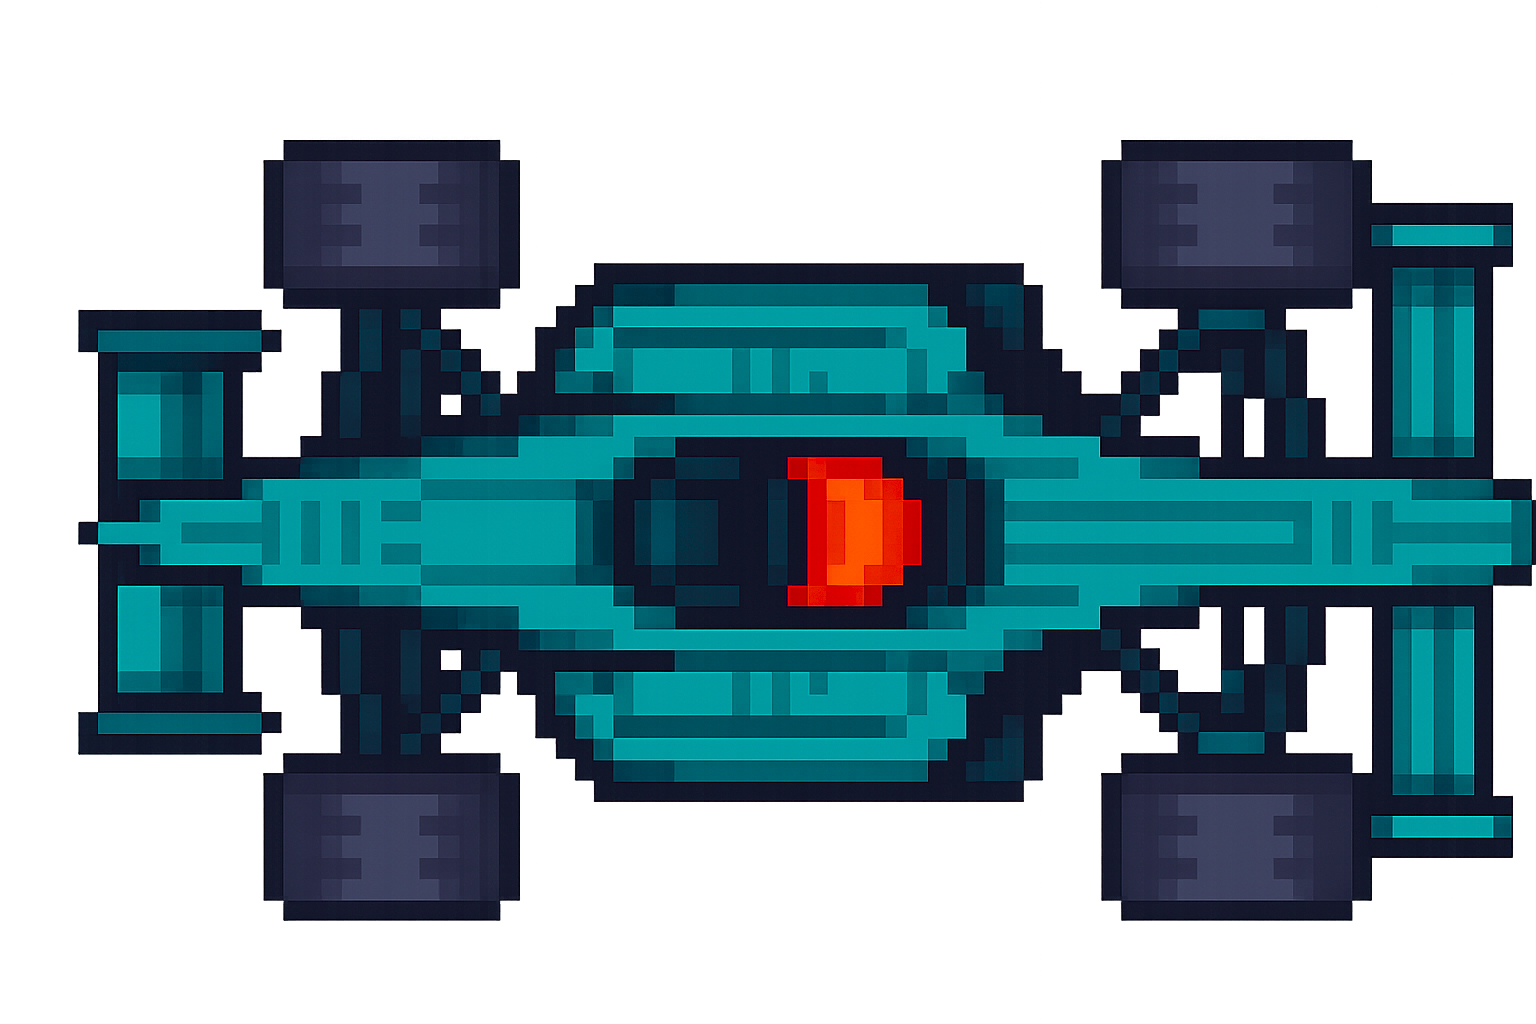
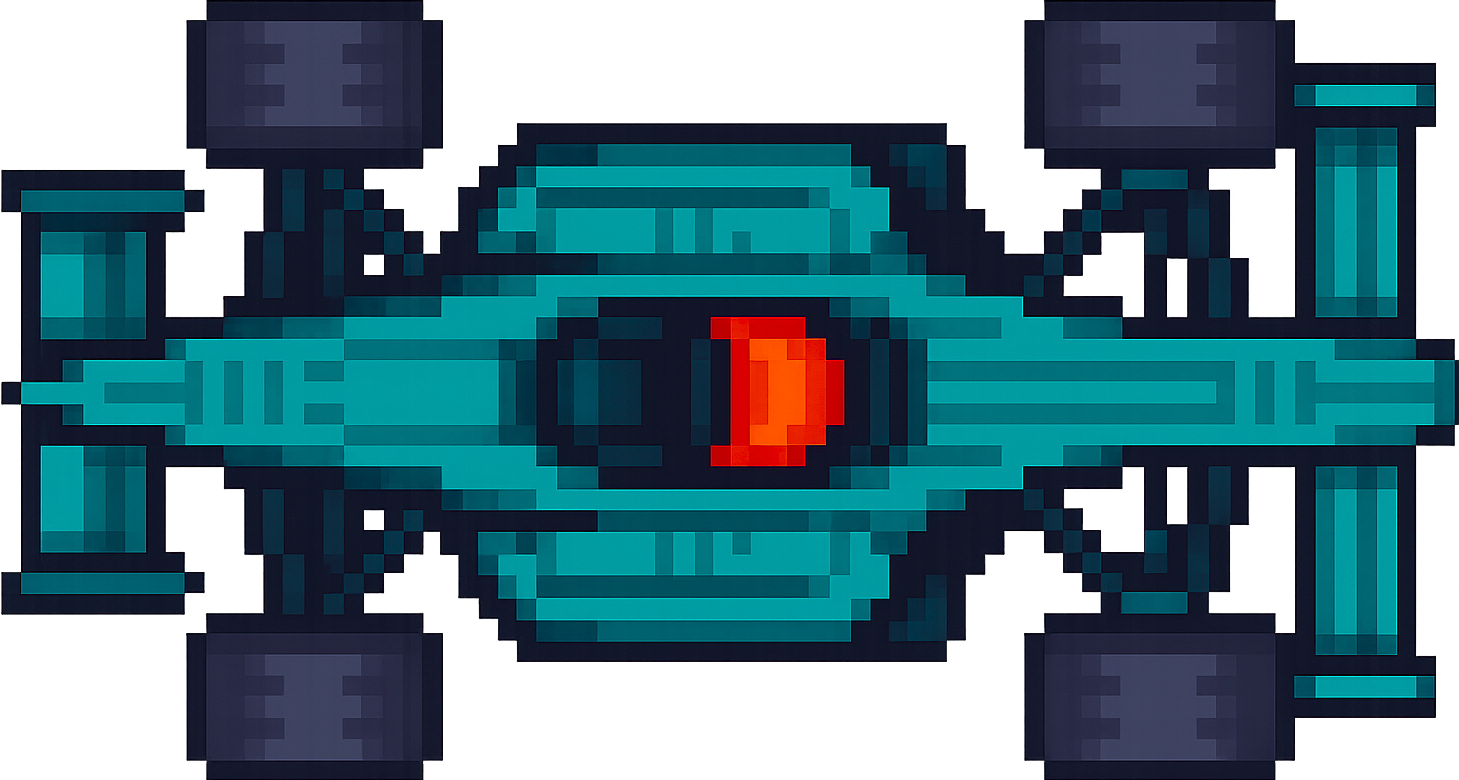
Colocando textura no carro

diff --git a/src/car.c b/src/car.c
@@ -33,10 +33,12 @@ void Track_setDrag(float track_drag, float light_escape_area_drag, float hard_es
     OUTSIDE_TRACK_DRAG     = 1 - ouside_track_drag;
 }
 
-void Track_setMask(Image track_mask) { // Definindo a imagem da máscara de pixels
-    IMAGE_WIDTH = track_mask.width;
-    IMAGE_HEIGHT = track_mask.height;
-    TRACK_PIXELS = LoadImageColors(track_mask);
+void Track_setMask(char* track_mask_path) { // Definindo a imagem da máscara de pixels
+    Image trackMask = LoadImage(track_mask_path);
+    IMAGE_WIDTH = trackMask.width;
+    IMAGE_HEIGHT = trackMask.height;
+    TRACK_PIXELS = LoadImageColors(trackMask);
+    UnloadImage(trackMask);
 }
 
 void Track_setDragColor(Color track, Color light_escape, Color hard_escape, Color outside) { // Definindo as cores de cada parte da pista e checkpoint
@@ -54,33 +56,6 @@ void Track_setCheckpointColor(Color race_start, Color first_check, Color second_
 
 void Track_Unload() { // Função para descarregar as variáveis associadas a pista
     UnloadImageColors(TRACK_PIXELS);
-}
-
-Car *Car_create(Vector2 pos, float acc, int width, int height, Color color, float angle,
-                float angularAcc, float minTurnSpeed, float breakCoeficient, float reverseForce,
-                int id) { // Função para criar um carro
-    Car *car = (Car *) malloc(sizeof(Car));
-    if (car == NULL)
-        return NULL;
-    car->pos          = pos;
-    car->acc          = acc;
-    car->width        = width;
-    car->height       = height;
-    car->color        = color;
-    car->angle        = angle;
-    car->angularAcc   = angularAcc;
-    car->minTurnSpeed = minTurnSpeed;
-    car->breakForce   = 1 - breakCoeficient;
-    car->reverseForce = reverseForce;
-    car->dragForce    = 0;
-    car->id           = id;
-    car->lap          = -1;
-    car->vel          = 0;
-    car->startLapTime = GetTime();
-    car->raceTime     = GetTime();
-    car->bestLapTime  = -1;
-    car->checkpoint   = 2;
-    return car;
 }
 
 static bool equalsColor(Color a, Color b) { // Verifica se uma cor é igual a outra
@@ -207,15 +182,56 @@ void Car_update(Car *car) {
 }
 
 void Car_draw(Car *car) {
-    Rectangle rect   = {car->pos.x, car->pos.y, car->width, car->height};
-    Vector2   origin = {car->width * 0.2f, car->height * 0.5f};
-    DrawRectanglePro(rect, origin, car->angle * RAD2DEG, car->color);
+    Rectangle sourceRec = {0, 0, car->texture.width, car->texture.height};  // A imagem inteira
+    Rectangle destRec = {car->pos.x, car->pos.y, car->width, car->height};  // Tamanho e posição do carro
+    Vector2 origin = {car->width * 0.5f, car->height * 0.5f};  // Centro da imagem para rotação
+    DrawTexturePro(car->texture, sourceRec, destRec, origin, car->angle * RAD2DEG, WHITE);
 }
 
+Car *Car_create(             // Função para criar um carro
+    Vector2 pos,             // posição inicial 
+    float angle,             // orientação inicial 
+
+    float acc,               // aceleração
+    float reverseForce,      // força de ré
+    float breakCoeficient,   // coeficiente de frenagem
+
+    float angularAcc,        // aceleração angular
+    float minTurnSpeed,      // velocidade mínima para virar
+
+    int width,               // largura do carro
+    int height,              // altura do carro
+
+    const char *texturePath, // path da textura 
+    int id                   // identificador único 
+) { 
+    Car *car = (Car *) malloc(sizeof(Car));
+    if (car == NULL)
+        return NULL;
+    car->pos          = pos;
+    car->acc          = acc;
+    car->texture      = LoadTexture(texturePath);
+    car->width        = width;
+    car->height       = height;
+    car->angle        = angle;
+    car->angularAcc   = angularAcc;
+    car->minTurnSpeed = minTurnSpeed;
+    car->breakForce   = 1 - breakCoeficient;
+    car->reverseForce = reverseForce;
+    car->dragForce    = 0;
+    car->id           = id;
+    car->lap          = -1;
+    car->vel          = 0;
+    car->startLapTime = GetTime();
+    car->raceTime     = GetTime();
+    car->bestLapTime  = -1;
+    car->checkpoint   = 2;
+    return car;
+}
 
 void Car_free(Car *car) {
+    UnloadTexture(car->texture);
     free(car);
-    // Caso precise liberar mais memória
 }
 
 void Car_move(Car *car, int up, int down, int right, int left) { // Atualiza as propriedades do carro de acordo com o input do player

diff --git a/src/game.c b/src/game.c
@@ -58,15 +58,9 @@ void setup() {
     SetTargetFPS(60);                                     // Definindo o frame rate em 60
 
     // Carregando a imagem da máscara de pixels
-    Image trackMask = LoadImage("resources/masks/interlagos_mask.png");
-    Track_setMask(trackMask);
-    UnloadImage(trackMask);
+    Track_setMask("resources/masks/interlagos_mask.png");
 
-    Image bgImage = LoadImage("resources/masks/interlagos_mask.png"); // Pista exibida
-    // ImageResize(&bgImage, SCREEN_WIDTH, SCREEN_HEIGHT);         // redimensiona
-    trackBackground = LoadTextureFromImage(bgImage); // converte em textura
-    UnloadImage(bgImage); // libera o recurso da imagem após virar textura
-
+    trackBackground = LoadTexture("resources/masks/interlagos_mask.png"); // converte em textura
     
     Track_setDrag(TRACK_DRAG, LIGHT_ESCAPE_AREA_DRAG, HARD_ESCAPE_AREA_DRAG, OUTSIDE_TRACK_DRAG);
 
@@ -76,17 +70,22 @@ void setup() {
 
     cars = LinkedList_create();
 
-    Car *car = Car_create((Vector2) {2500, 3600}, // pos
-                          0.28,                    // aceleracao do carro
-                          75,                     // largura
-                          25,                     // altura
-                          ORANGE,                 // Cor
-                          0.0,                    // angulo inicial do carro
-                          0.035,                  // aceleraçao angular ( velocidade de rotacao),
-                          0.2,                    // Velocidade mínima para fazer curva,
-                          0.03,                   // Força de frenagem,
-                          0.2,                    // Força da marcha ré
-                          1                       // id do carro
+    Car *car = Car_create(
+        (Vector2){5400, 2000},     // pos
+        2.66,                      // angulo inicial do carro
+
+        0.3,                       // aceleracao do carro
+        0.2,                       // força da marcha ré
+        0.02,                      // força de frenagem
+
+        0.035,                     // aceleração angular (velocidade de rotação)
+        0.2,                       // velocidade mínima para fazer curva
+
+        100,                       // largura
+        50,                        // altura
+
+        "resources/cars/carroazul.png", // path da textura
+        1                          // id do carro
     );
 
     LinkedList_addCar(cars, car); // Adicionando o carro criado na lista encadeada
@@ -132,7 +131,7 @@ void update() {
         cars,
         Car_update); // Jogando a função Car_update(Car* car); para cada carro da lista encadeada
 
-    updateCameraTarget(player); // Colocar essa linha de código para testar
+    updateCameraTarget(player); // Atualizando a posição da camera
 }
 
 void draw() {

diff --git a/src/car.h b/src/car.h
@@ -13,9 +13,9 @@ typedef struct {
     Vector2 pos;
     float   vel;
     float   acc;
+    Texture2D texture;
     int     width;
     int     height;
-    Color   color;
     float   angle;
     float   angularAcc;
     float   minTurnSpeed;
@@ -26,16 +26,31 @@ typedef struct {
 
 void Track_setDrag(float track_drag, float light_escape_area_drag, float hard_escape_area_drag,
                    float ouside_track_drag); // Função que define as propriedades da pista
-void Track_setMask(Image track_mask); // Definindo a mascara de pixel para carros lerem
+void Track_setMask(char* track_mask_path); // Definindo a mascara de pixel para carros lerem
 void Track_setDragColor(Color track, Color light_escape, Color hard_escape, Color outside); // Definindo (rgb) para cada parte da pista
 
 void Track_setCheckpointColor(Color race_start, Color first_check, Color second_check); // Define as cores dos checkpoints
 
 void Track_Unload(); // Libera a memória de recursos da mascara de pixels
 
-Car *Car_create(Vector2 pos, float acc, int width, int height, Color color, float angle,
-                float angularAcc, float minTurnSpeed, float breakCoeficient, float reverseForce,
-                int id);
+Car *Car_create(
+    Vector2 pos,             // posição inicial 
+    float angle,             // orientação inicial 
+
+    float acc,               // aceleração
+    float reverseForce,      // força de ré
+    float breakCoeficient,   // coeficiente de frenagem
+
+    float angularAcc,        // aceleração angular
+    float minTurnSpeed,      // velocidade mínima para virar
+
+    int width,               // largura do carro
+    int height,              // altura do carro
+
+    const char *texturePath, // path da textura 
+    int id                   // identificador único 
+);
+
 void Car_free(Car *car); // Libera a memória de um carro
 
 void Car_update(Car *car);     // Atualizar a posição do carro a cada frame
